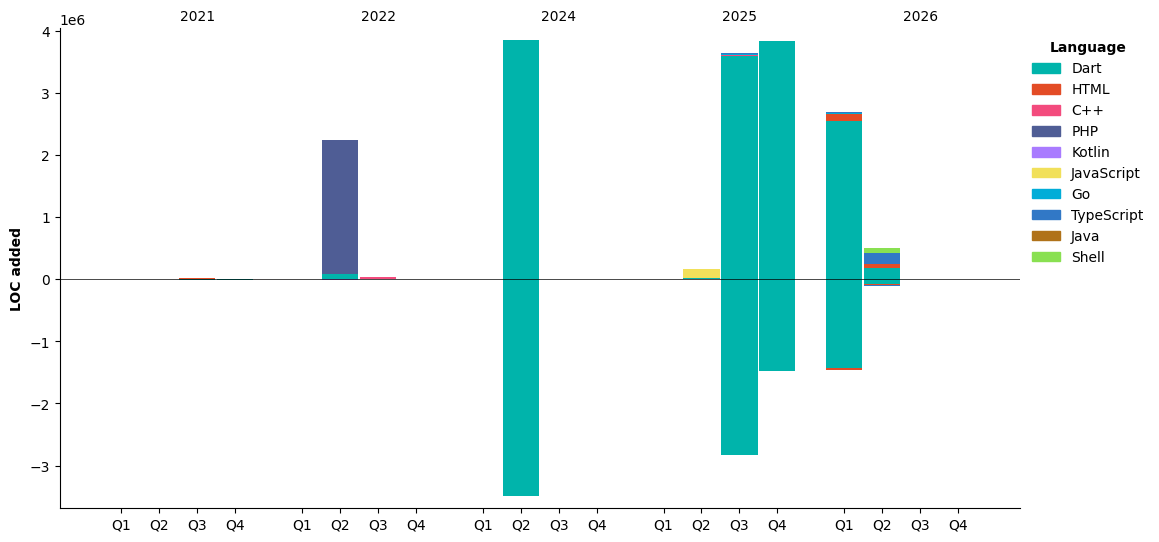
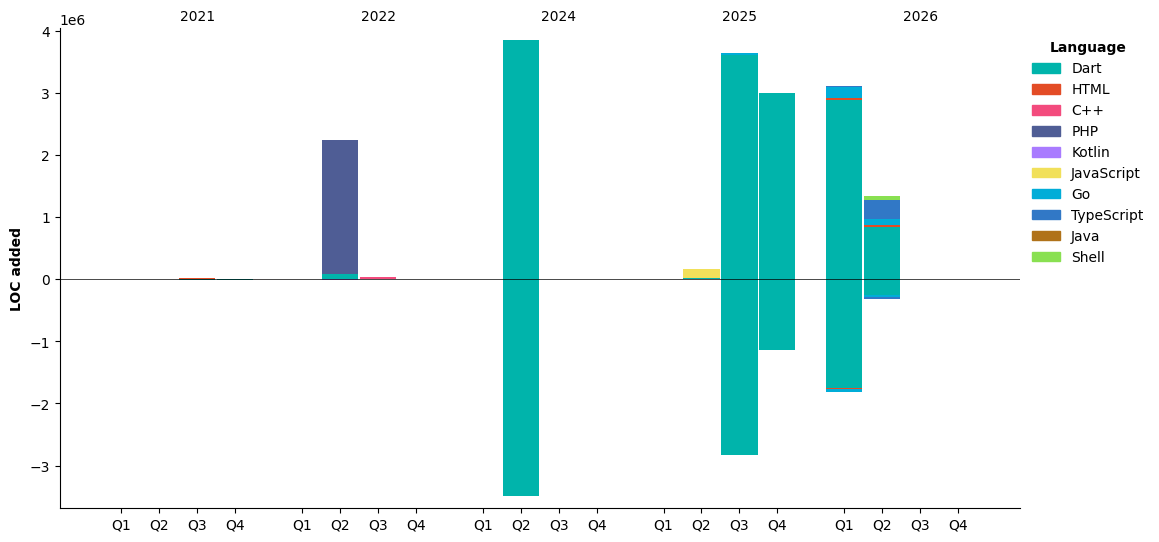
Updated with Dev Metrics

diff --git a/README.md b/README.md
@@ -134,7 +134,57 @@ Learning deeply. Building practically. Shipping responsibly.
 ## 📈 Weekly Development Breakdown
 
 <!--START_SECTION:waka-->
-<!-- WakaTime stats will be updated here automatically if your workflow is enabled. -->
+![Code Time](http://img.shields.io/badge/Code%20Time-1%2C071%20hrs%2027%20mins-blue?style=flat)
+
+![Profile Views](http://img.shields.io/badge/Profile%20Views-13-blue?style=flat)
+
+**🐱 My GitHub Data** 
+
+> 📦 884.3 kB Used in GitHub's Storage 
+ > 
+> 🏆 371 Contributions in the Year 2026
+ > 
+> 🚫 Not Opted to Hire
+ > 
+> 📜 56 Public Repositories 
+ > 
+> 🔑 35 Private Repositories 
+ > 
+📅 **I'm Most Productive on Monday** 
+
+```text
+Monday                   2159 commits        ██████░░░░░░░░░░░░░░░░░░░   22.66 % 
+Tuesday                  1627 commits        ████░░░░░░░░░░░░░░░░░░░░░   17.08 % 
+Wednesday                1609 commits        ████░░░░░░░░░░░░░░░░░░░░░   16.89 % 
+Thursday                 1473 commits        ████░░░░░░░░░░░░░░░░░░░░░   15.46 % 
+Friday                   1366 commits        ████░░░░░░░░░░░░░░░░░░░░░   14.34 % 
+Saturday                 605 commits         ██░░░░░░░░░░░░░░░░░░░░░░░   06.35 % 
+Sunday                   689 commits         ██░░░░░░░░░░░░░░░░░░░░░░░   07.23 % 
+```
+
+
+📊 **This Week I Spent My Time On** 
+
+```text
+💬 Programming Languages: 
+Dart                     17 hrs 37 mins      ████████████████░░░░░░░░░   64.51 % 
+Markdown                 5 hrs 53 mins       █████░░░░░░░░░░░░░░░░░░░░   21.60 % 
+Other                    50 mins             █░░░░░░░░░░░░░░░░░░░░░░░░   03.11 % 
+Go                       42 mins             █░░░░░░░░░░░░░░░░░░░░░░░░   02.62 % 
+JSON                     36 mins             █░░░░░░░░░░░░░░░░░░░░░░░░   02.20 % 
+
+🔥 Editors: 
+VS Code                  20 hrs 21 mins      ███████████████████░░░░░░   74.53 % 
+Claude Code              5 hrs 34 mins       █████░░░░░░░░░░░░░░░░░░░░   20.43 % 
+Codex CLI                1 hr 22 mins        █░░░░░░░░░░░░░░░░░░░░░░░░   05.04 % 
+```
+
+**Timeline**
+
+![Lines of Code chart](https://raw.githubusercontent.com/Kidpech-code/Kidpech-code/main/assets/bar_graph.png)
+
+
+ Last Updated on 25/06/2026 01:21:10 UTC
 <!--END_SECTION:waka-->
 
 ---
